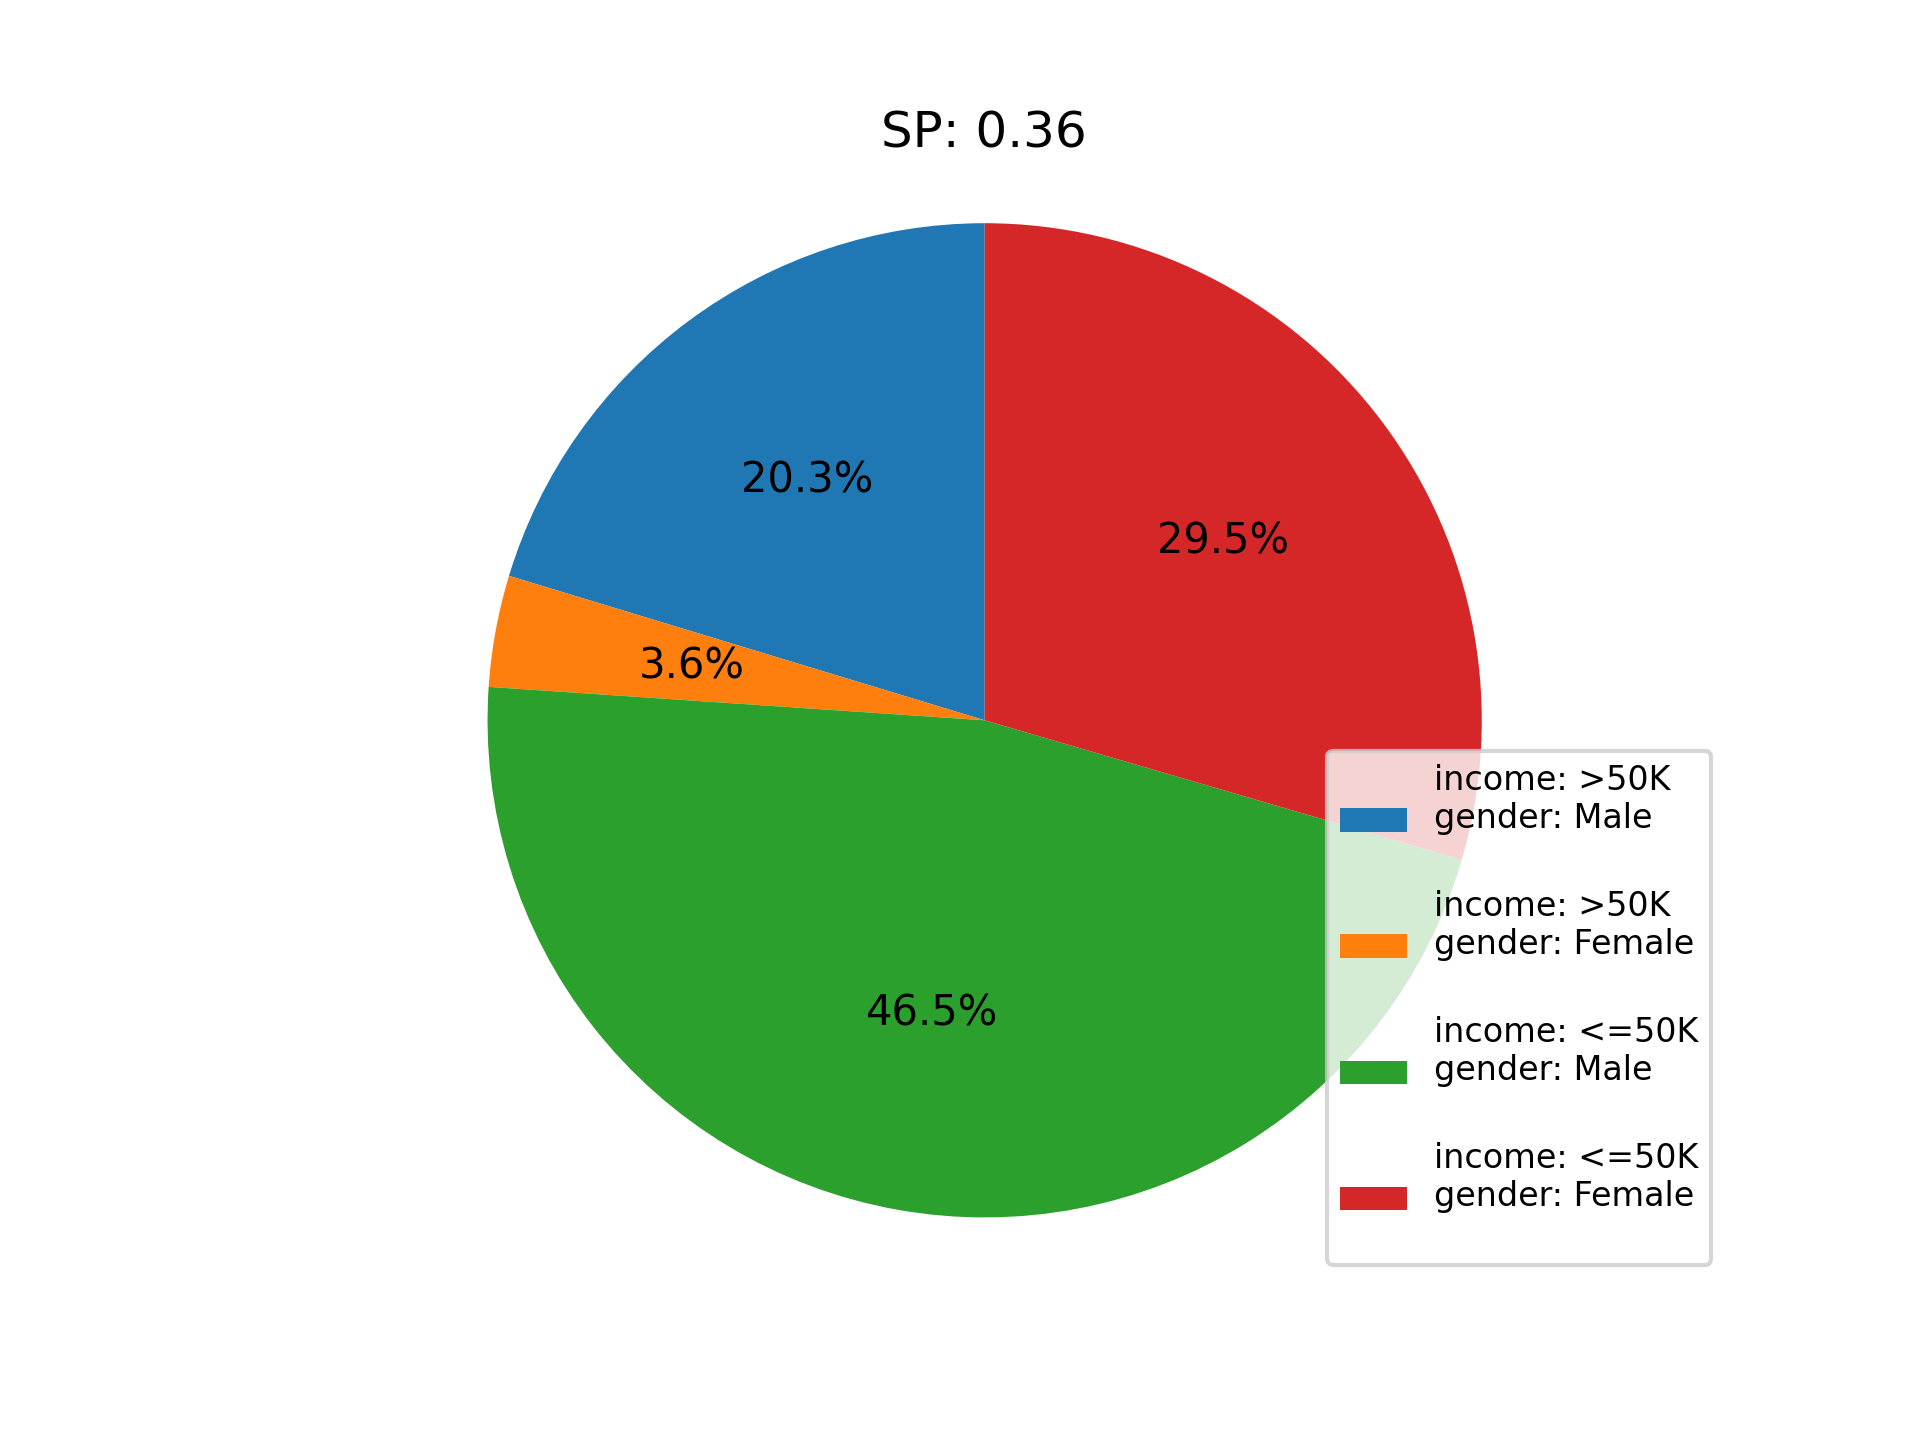
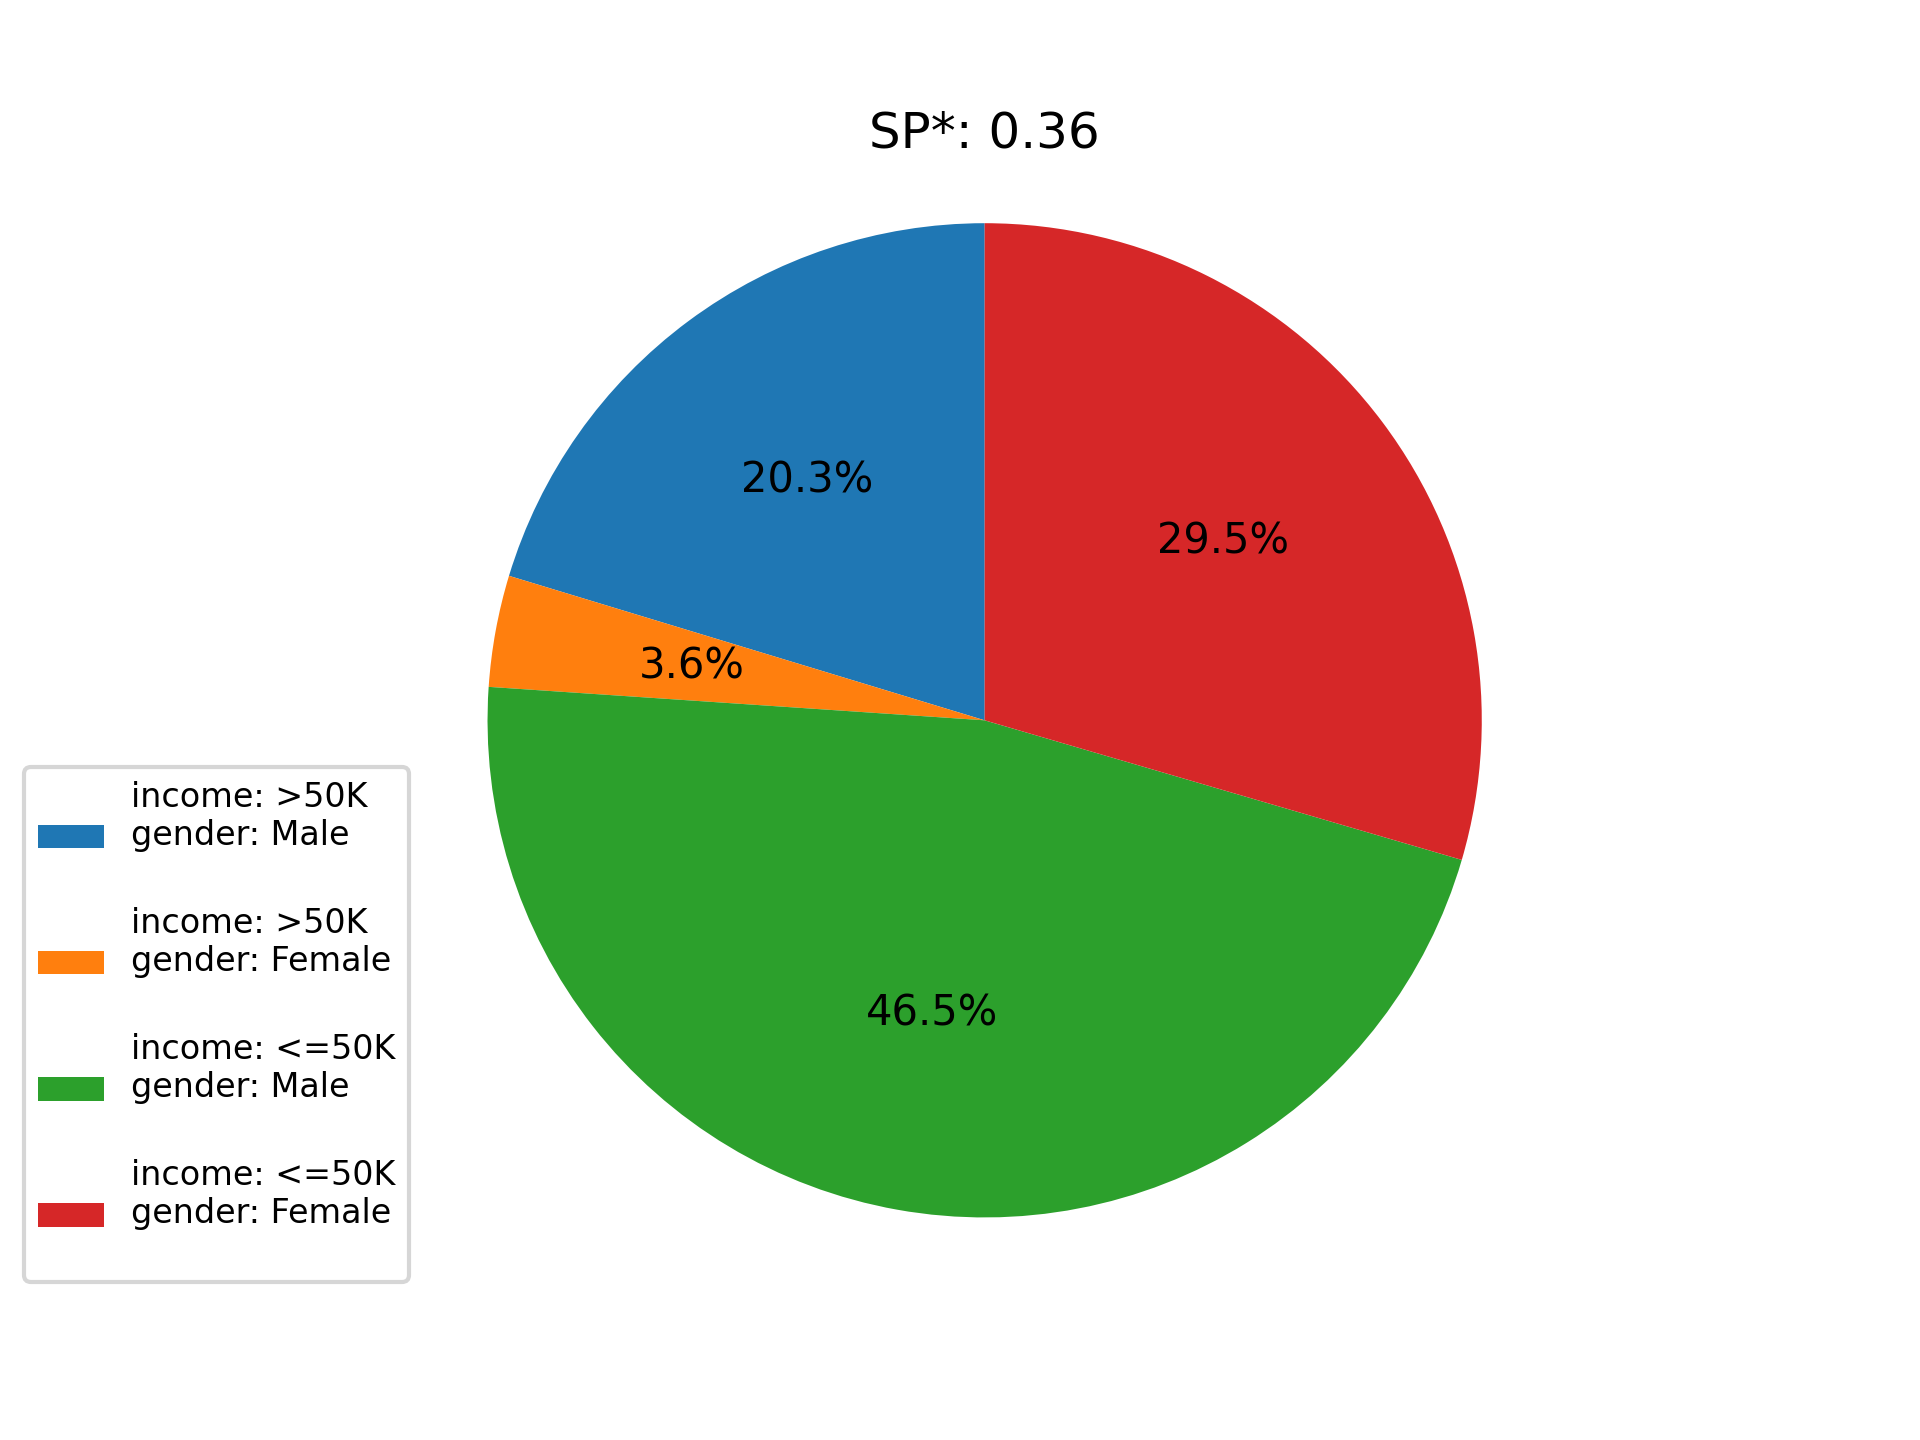
Small fixes.

diff --git a/code/plots/plot_results_epochs.py b/code/plots/plot_results_epochs.py
@@ -1,6 +1,6 @@
-from code.plots.pareto_front import get_random_colors
 from code.plots.plot import get_dfs
 
+import distinctipy
 import matplotlib.pyplot as plt
 
 
@@ -11,16 +11,16 @@ def plot_results_epochs(dataset_name, num_runs, fairness_metrics, alphas, lambda
 
     for a in range(len(alphas)):
         fls = ["fedavg", "fedavg_gr", "fedavg_lr"]
-        fairness_metrics_string = "-".join([f.split("_")[0] for f in fairness_metrics])
-        fl_fedval = "fed_val_{}".format(fairness_metrics_string)
-        fls.append(fl_fedval)
-        fl_fairfed = "fair_fed_{}".format(fairness_metrics_string)
-        fls.append(fl_fairfed)
         fls.append("fedmom_b_{}".format(str(beta_fedmom[a])))
         dfs_alpha = []
 
         for i in range(len(fairness_metrics)):
             fls_metric = fls[:]
+            fairness_metrics_string = fairness_metrics[i].split("_")[0]
+            fl_fedval = "fed_val_{}".format(fairness_metrics_string)
+            fls_metric.append(fl_fedval)
+            fl_fairfed = "fair_fed_{}".format(fairness_metrics_string)
+            fls_metric.append(fl_fairfed)
             fairfate_fl = "fair_fate_l_e{}_b_{}_{}".format(str(lambdas_fairfate[a][i]), str(betas_fairfate[a][i]), fairness_metrics_string)
             fls_metric.append(fairfate_fl)
             if alphas[a]:
@@ -40,12 +40,12 @@ def plot_results_epochs(dataset_name, num_runs, fairness_metrics, alphas, lambda
     count = 1
 
     fls_legend = [
-        ["FedAvg", "FedAvg+GR", "FedAvg+LR", "FedMom", "FAIR-FATE-SP", "FAIR-FATE-EO", "FAIR-FATE-EQO"],
-        ["FedAvg", "FedAvg+GR", "FedAvg+LR", "FedMom", "FAIR-FATE-SP"],
-        ["FedAvg", "FedAvg+GR", "FedAvg+LR", "FedMom", "FAIR-FATE-EO"],
-        ["FedAvg", "FedAvg+GR", "FedAvg+LR", "FedMom", "FAIR-FATE-EQO"]
+        ["FedAvg", "FedAvg+GR", "FedAvg+LR", "FedMom", "FedVal-SP", "FedVal-EO", "FedVal-EQO", "FedFair-SP", "FedFair-EO", "FedFair-EQO", "FAIR-FATE-SP", "FAIR-FATE-EO", "FAIR-FATE-EQO"],
+        ["FedAvg", "FedAvg+GR", "FedAvg+LR", "FedMom", "FedVal-SP", "FedFair-SP", "FAIR-FATE-SP"],
+        ["FedAvg", "FedAvg+GR", "FedAvg+LR", "FedMom", "FedVal-EO", "FedFair-EO", "FAIR-FATE-EO"],
+        ["FedAvg", "FedAvg+GR", "FedAvg+LR", "FedMom", "FedVal-EQO", "FedFair-EQO", "FAIR-FATE-EQO"]
     ]
-    colors = get_random_colors(len(fls_legend[0]))
+    colors = distinctipy.get_colors(len(fls_legend[0]))
     d = {}
     for i in range(len(fls_legend[0])):
         d[fls_legend[0][i]] = colors[i]
@@ -65,7 +65,7 @@ def plot_results_epochs(dataset_name, num_runs, fairness_metrics, alphas, lambda
 
     handles = [plt.plot([], [], color=colors[i], marker="o", ls="")[0] for i in range(len(colors))]
     coords = (-1.8, -0.3)
-    rho_legend = plt.legend(handles=handles, labels=fls_legend[0], loc=coords, prop={'size': 11}, ncol=len(handles))
+    rho_legend = plt.legend(handles=handles, labels=fls_legend[0], loc=coords, prop={'size': 11}, ncol=int(len(handles)/2))
     plt.gca().add_artist(rho_legend)
 
     plt.savefig('./datasets/{}/rounds_plot.png'.format(dataset_name), bbox_inches='tight')

diff --git a/plot.py b/plot.py
@@ -59,12 +59,11 @@ def plot_paretos(dataset_name, num_runs, alphas, metrics_F, metric_a, filename):
 
 
 if __name__ == '__main__':
-    alpha = 0.1
+    alpha = 0.25
     dataset_name = Compas().name
     metrics = ["TPR_ratio"]
-    print_results(dataset_name, 20, metrics, alpha=alpha)
+    #print_results(dataset_name, 20, metrics, alpha=alpha)
 
-    """
     plot_results_epochs(
         Dutch().name, 20, ["SP_ratio", "TPR_ratio", "EQO_ratio"],
         [0.5, 1.0, None],
@@ -72,8 +71,6 @@ if __name__ == '__main__':
         [[0.9, 0.99, 0.7], [0.7, 0.8, 0.8], [0.99, 0.99, 0.99]],
         [0.8, 0.9, 0.9]
     )
-    """
-    """
     plot_results_epochs(
         Law().name, 20, ["SP_ratio", "TPR_ratio", "EQO_ratio"],
         [0.25, 0.5, None],
@@ -81,8 +78,6 @@ if __name__ == '__main__':
         [[0.7, 0.7, 0.8], [0.8, 0.9, 0.7], [0.9, 0.8, 0.8]],
         [0.8, 0.7, 0.99]
     )
-    """
-    """
     plot_results_epochs(
         Adult().name, 20, ["SP_ratio", "TPR_ratio", "EQO_ratio"],
         [0.5, 1.0, None],
@@ -90,8 +85,6 @@ if __name__ == '__main__':
         [[0.7, 0.8, 0.7], [0.7, 0.7, 0.7], [0.99, 0.99, 0.99]],
         [0.9, 0.9, 0.9]
     )
-    """
-    """
     plot_results_epochs(
         Compas().name, 20, ["SP_ratio", "TPR_ratio", "EQO_ratio"],
         [0.25, 0.5, None],
@@ -99,7 +92,6 @@ if __name__ == '__main__':
         [[0.9, 0.8, 0.9], [0.7, 0.7, 0.7], [0.99, 0.99, 0.99]],
         [0.8, 0.9, 0.99]
     )
-    """
 
     #plot_paretos(Adult().name, 20, [None, 1.0, 0.5], [["SP_ratio"], ["TPR_ratio"], ["EQO_ratio"]], "ACC", "pareto_fronts-adult")
     #plot_paretos(Compas().name, 20, [None, 0.5, 0.25], [["SP_ratio"], ["TPR_ratio"], ["EQO_ratio"]], "ACC", "pareto_fronts-compas")

diff --git a/code/plots/pie_chart.py b/code/plots/pie_chart.py
@@ -45,16 +45,16 @@ def calculate_sp(df, dataset):
 
     if (Y_1_S_1 / S_1) == 0:
         return 0
-    return round((Y_1_S_0 / S_0) / (Y_1_S_1 / S_1), 3)
+    return round((Y_1_S_0 / S_0) / (Y_1_S_1 / S_1), 2)
 
 
 # Plot pie chart
 def plot_pie_chart(sp, labels, sizes, plot_filename):
     fig1, ax1 = plt.subplots()
     ax1.pie(sizes, autopct='%1.1f%%', labeldistance=1.2, startangle=90)
-    plt.legend(labels=labels, loc='lower right', prop={'size': 8})
+    plt.legend(labels=labels, loc=(-0.145, 0), prop={'size': 8})  #loc=(-0.145, 0) -> compas
     ax1.axis('equal')
-    plt.title("SP: {}".format(sp))
+    plt.title("SP*: {}".format(sp))
     plt.rcParams['figure.dpi'] = 300
     plt.rcParams['savefig.dpi'] = 300
     plt.savefig(plot_filename)

diff --git a/code/datasets/Dutch.py b/code/datasets/Dutch.py
@@ -6,7 +6,7 @@ class Dutch(Dataset):
     def __init__(self):
         name = "dutch"
         sensitive_attributes = [Feature("sex", ["male"], ["female"], "Male", "Female")]
-        target = Feature("occupation", 1, 0)
+        target = Feature("occupation", 1, 0, "'high level'", "'low level'")
         cat_columns = []
         all_columns = [
             "sex", "age", "household_position", "household_size", "prev_residence_place", "citizenship",
